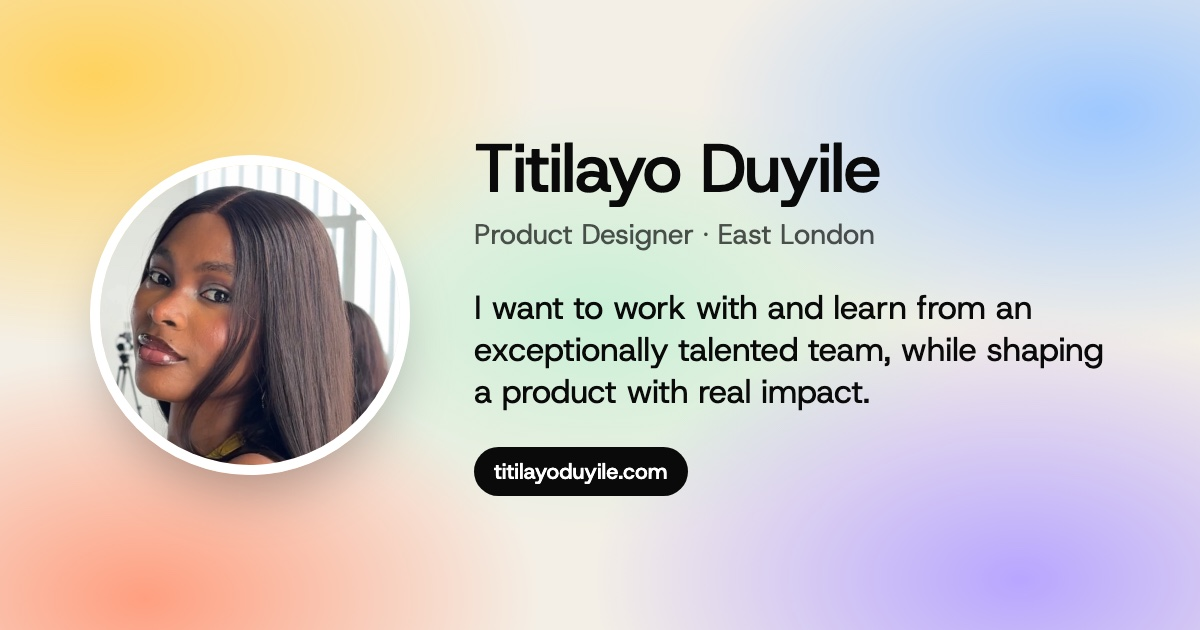
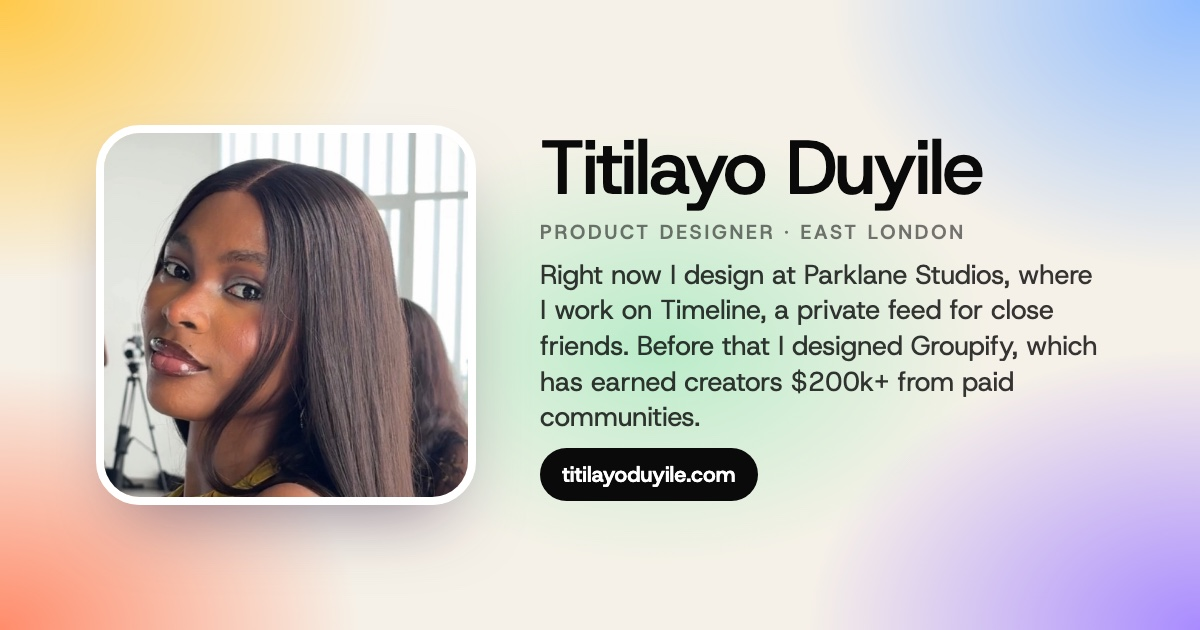
New link preview card, iPhone scratch sound fix

diff --git a/index.html b/index.html
@@ -1765,10 +1765,16 @@ function mountMusic(w){
   const vin=$('.vinyl',w), disc=$('.disc',vin); let ang=0, last=performance.now(), drag=null, ac=null, sc=null;
   const spin=now=>{ if(!w.isConnected) return; const dt=now-last; last=now; if(!drag && playing) ang+=dt*.2; disc.style.transform=`rotate(${ang}deg)`; requestAnimationFrame(spin); };
   requestAnimationFrame(spin);
-  const scratchOn=()=>{ try{ ac=ac||new (window.AudioContext||window.webkitAudioContext)(); ac.resume();
-    const len=ac.sampleRate*2, buf=ac.createBuffer(1,len,ac.sampleRate), d=buf.getChannelData(0);
-    for(let i=0;i<len;i++) d[i]=(Math.random()*2-1)*.6+Math.sin(i/ac.sampleRate*2*Math.PI*110*(1+Math.sin(i/900)*.3))*.5;
-    const n=ac.createBufferSource(); n.buffer=buf; n.loop=true; const f=ac.createBiquadFilter(); f.type='bandpass'; f.Q.value=2.5; const g=ac.createGain(); g.gain.value=0;
+  // iPhones: Web Audio must be unlocked by a tap, and follows the silent switch unless the page asks for "playback"
+  let noise=null;
+  const unlock=()=>{ try{ if(navigator.audioSession) navigator.audioSession.type='playback'; ac=ac||new (window.AudioContext||window.webkitAudioContext)();
+    if(ac.state!=='running') ac.resume();
+    if(!noise){ const len=ac.sampleRate*2; noise=ac.createBuffer(1,len,ac.sampleRate); const d=noise.getChannelData(0);
+      for(let i=0;i<len;i++) d[i]=(Math.random()*2-1)*.6+Math.sin(i/ac.sampleRate*2*Math.PI*110*(1+Math.sin(i/900)*.3))*.5;
+      const s=ac.createBufferSource(); s.buffer=ac.createBuffer(1,1,ac.sampleRate); s.connect(ac.destination); s.start(); } }catch(e){} };
+  w.addEventListener('touchend',unlock,{passive:true}); w.addEventListener('click',unlock);
+  const scratchOn=()=>{ try{ unlock();
+    const n=ac.createBufferSource(); n.buffer=noise; n.loop=true; const f=ac.createBiquadFilter(); f.type='bandpass'; f.Q.value=2.5; const g=ac.createGain(); g.gain.value=0;
     n.connect(f).connect(g).connect(ac.destination); n.start(); sc={n,f,g}; }catch(e){ sc=null; } };
   const scratchOff=()=>{ if(!sc) return; const {n,g}=sc; g.gain.setTargetAtTime(0,ac.currentTime,.03); setTimeout(()=>n.stop(),200); sc=null; };
   const note=()=>{ if(reduce) return; const r=vin.getBoundingClientRect(), e=document.createElement('span'); e.className='sp-note-fx'; e.textContent=['♪','♫','♬','♩'][Math.floor(Math.random()*4)];
